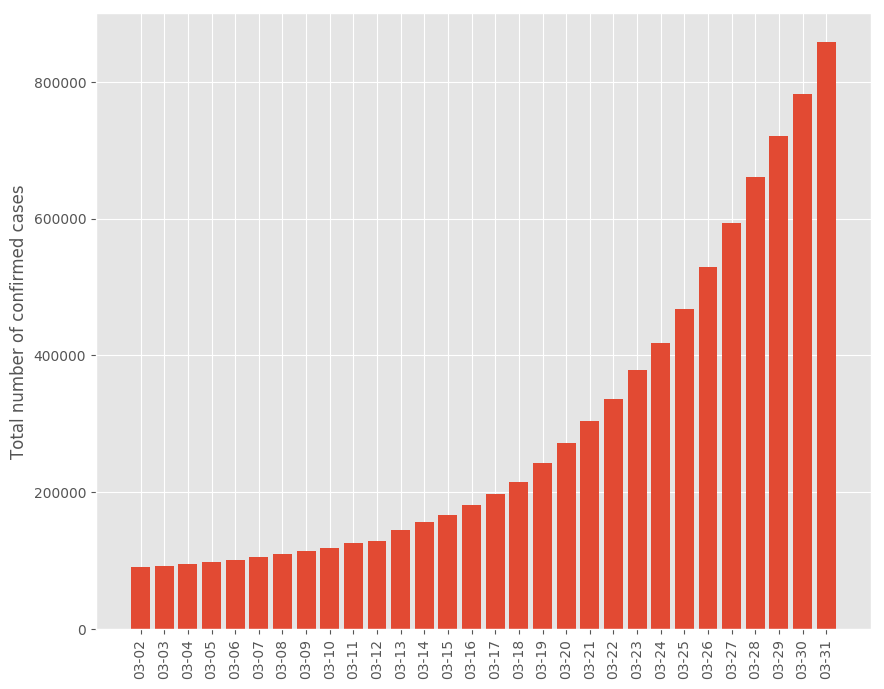
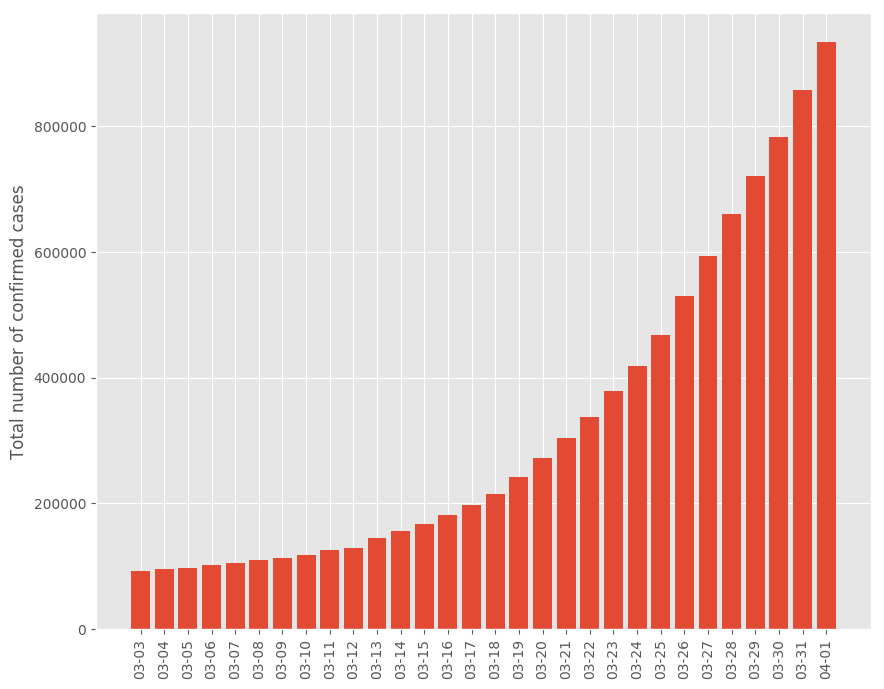
World chart fix

diff --git a/covid19bot.py b/covid19bot.py
@@ -57,10 +57,10 @@ def on_callback_query(msg):
             
     else:
         if days_str == 'All':
-            Chart(DADOS.locations)
+            Chart(DADOS.locations, w=True)
             bot.sendPhoto(group_id, open(f"charts/chart_world.png",'rb'))
         else:
-            Chart(DADOS.locations, int(days_str))
+            Chart(DADOS.locations, int(days_str), w=True)
             bot.sendPhoto(group_id, open(f"charts/chart{days_str}_world.png",'rb'))
 
             

diff --git a/database.py b/database.py
@@ -113,7 +113,7 @@ class Chart:
                 plt.savefig(f"charts/chart{period}_{Locations_indx[0]['country_code']}",bbox_inches='tight')  
        
         # se todos os paises forem passados como argumto, ele cria um grafico com todos os casos do mundo
-        elif w=True:
+        elif w == True:
             self.chart = self.linear_acumulativo_world(period)
             
             if period == None:
